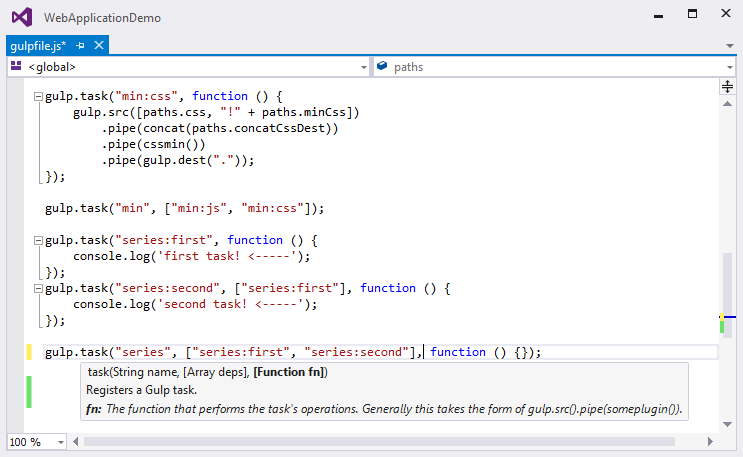
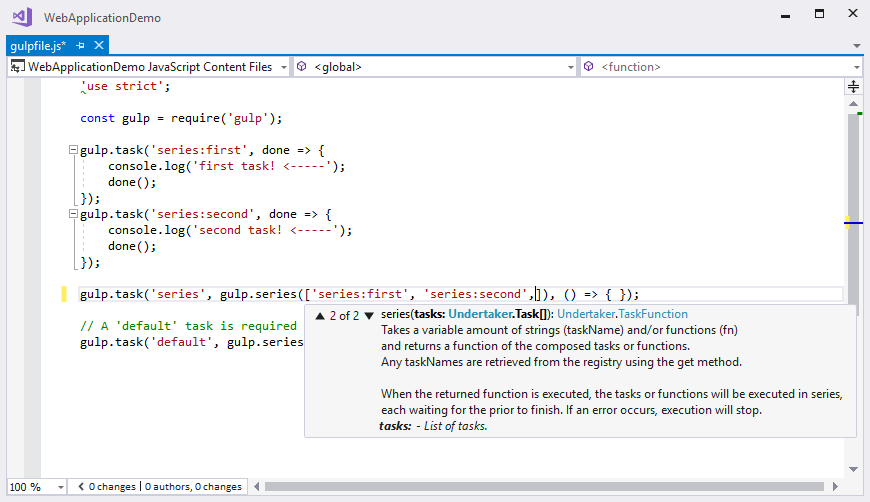
Added details, examples and docs on Gulp v4 (#8843)
Fixes https://github.com/aspnet/Docs/issues/8827
Fixes https://github.com/aspnet/Docs/issues/7632

**Internal Review Pages**
* [Use Gulp](https://review.docs.microsoft.com/en-us/aspnet/core/client-side/using-gulp?view=aspnetcore-2.1&branch=pr-en-us-8843)
* [Bundle & minify](https://review.docs.microsoft.com/en-us/aspnet/core/client-side/bundling-and-minification?view=aspnetcore-2.1&branch=pr-en-us-8843)

Changed region(s): [[0.0, 0.0, 1.0, 1.0], [0.9287, 0.0, 0.9906, 0.0306]]

diff --git a/aspnetcore/client-side/bundling-and-minification/samples/BuildBundlerMinifierApp/gulpfile.js b/aspnetcore/client-side/bundling-and-minification/samples/BuildBundlerMinifierApp/gulpfile.js
@@ -1,78 +1,67 @@
-"use strict";
+'use strict';
 
-var gulp = require("gulp"),
-    concat = require("gulp-concat"),
-    cssmin = require("gulp-cssmin"),
-    htmlmin = require("gulp-htmlmin"),
-    uglify = require("gulp-uglify"),
-    merge = require("merge-stream"),
-    del = require("del"),
-    bundleconfig = require("./bundleconfig.json");
+var gulp = require('gulp'),
+    concat = require('gulp-concat'),
+    cssmin = require('gulp-cssmin'),
+    htmlmin = require('gulp-htmlmin'),
+    uglify = require('gulp-uglify'),
+    merge = require('merge-stream'),
+    del = require('del'),
+    bundleconfig = require('./bundleconfig.json');
 
 // Code omitted for brevity
 
-var regex = {
+const regex = {
     css: /\.css$/,
     html: /\.(html|htm)$/,
     js: /\.js$/
 };
 
-gulp.task("min", ["min:js", "min:css", "min:html"]);
-
-gulp.task("min:js", function () {
-    var tasks = getBundles(regex.js).map(function (bundle) {
-        return gulp.src(bundle.inputFiles, { base: "." })
+gulp.task('min:js',
+    () => merge(getBundles(regex.js).map(bundle => {
+        return gulp.src(bundle.inputFiles, { base: '.' })
             .pipe(concat(bundle.outputFileName))
             .pipe(uglify())
-            .pipe(gulp.dest("."));
-    });
-    return merge(tasks);
-});
+            .pipe(gulp.dest('.'));
+    })));
 
-gulp.task("min:css", function () {
-    var tasks = getBundles(regex.css).map(function (bundle) {
-        return gulp.src(bundle.inputFiles, { base: "." })
+gulp.task('min:css',
+    () => merge(getBundles(regex.css).map(bundle => {
+        return gulp.src(bundle.inputFiles, { base: '.' })
             .pipe(concat(bundle.outputFileName))
             .pipe(cssmin())
-            .pipe(gulp.dest("."));
-    });
-    return merge(tasks);
-});
+            .pipe(gulp.dest('.'));
+    })));
 
-gulp.task("min:html", function () {
-    var tasks = getBundles(regex.html).map(function (bundle) {
-        return gulp.src(bundle.inputFiles, { base: "." })
+gulp.task('min:html',
+    () => merge(getBundles(regex.html).map(bundle => {
+        return gulp.src(bundle.inputFiles, { base: '.' })
             .pipe(concat(bundle.outputFileName))
             .pipe(htmlmin({ collapseWhitespace: true, minifyCSS: true, minifyJS: true }))
-            .pipe(gulp.dest("."));
-    });
-    return merge(tasks);
+            .pipe(gulp.dest('.'));
+    })));
+
+gulp.task('min', gulp.series(['min:js', 'min:css', 'min:html']));
+
+gulp.task('clean', () => {
+    return del(bundleconfig.map(bundle => bundle.outputFileName));
 });
 
-gulp.task("clean", function () {
-    var files = bundleconfig.map(function (bundle) {
-        return bundle.outputFileName;
-    });
+gulp.task('watch', () => {
+    getBundles(regex.js).forEach(
+        bundle => gulp.watch(bundle.inputFiles, gulp.series(["min:js"])));
 
-    return del(files);
+    getBundles(regex.css).forEach(
+        bundle => gulp.watch(bundle.inputFiles, gulp.series(["min:css"])));
+
+    getBundles(regex.html).forEach(
+        bundle => gulp.watch(bundle.inputFiles, gulp.series(['min:html'])));
 });
 
-gulp.task("watch", function () {
-    getBundles(regex.js).forEach(function (bundle) {
-        gulp.watch(bundle.inputFiles, ["min:js"]);
-    });
-
-    getBundles(regex.css).forEach(function (bundle) {
-        gulp.watch(bundle.inputFiles, ["min:css"]);
-    });
-
-    getBundles(regex.html).forEach(function (bundle) {
-        gulp.watch(bundle.inputFiles, ["min:html"]);
-    });
-});
-
-function getBundles(regexPattern) {
-    return bundleconfig.filter(function (bundle) {
+const getBundles = (regexPattern) => {
+    return bundleconfig.filter(bundle => {
         return regexPattern.test(bundle.outputFileName);
     });
-}
+};
+
+gulp.task('default', gulp.series(['min']));

diff --git a/aspnetcore/client-side/using-gulp.md b/aspnetcore/client-side/using-gulp.md
@@ -4,12 +4,12 @@ author: rick-anderson
 description: Learn how to use Gulp in ASP.NET Core.
 ms.author: riande
 ms.custom: H1Hack27Feb2017
-ms.date: 02/28/2017
+ms.date: 10/04/2018
 uid: client-side/using-gulp
 ---
 # Use Gulp in ASP.NET Core
 
-By [Erik Reitan](https://github.com/Erikre), [Scott Addie](https://scottaddie.com), [Daniel Roth](https://github.com/danroth27), and [Shayne Boyer](https://twitter.com/spboyer)
+By [Scott Addie](https://scottaddie.com), [Shayne Boyer](https://twitter.com/spboyer), and [David Pine](https://twitter.com/davidpine7)
 
 In a typical modern web app, the build process might:
 
@@ -31,10 +31,10 @@ A set of Gulp tasks is defined in *gulpfile.js*. The following JavaScript includ
 "use strict";
 
 var gulp = require("gulp"),
-  rimraf = require("rimraf"),
-  concat = require("gulp-concat"),
-  cssmin = require("gulp-cssmin"),
-  uglify = require("gulp-uglify");
+    rimraf = require("rimraf"),
+    concat = require("gulp-concat"),
+    cssmin = require("gulp-cssmin"),
+    uglify = require("gulp-uglify");
 
 var paths = {
   webroot: "./wwwroot/"
@@ -61,32 +61,31 @@ The above code specifies which Node modules are required. The `require` function
 Once the requisite modules are imported, the tasks can be specified. Here there are six tasks registered, represented by the following code:
 
 ```javascript
-gulp.task("clean:js", function (cb) {
-  rimraf(paths.concatJsDest, cb);
-});
+gulp.task("clean:js", done => rimraf(paths.concatJsDest, done));
+gulp.task("clean:css", done => rimraf(paths.concatCssDest, done));
+gulp.task("clean", gulp.series(["clean:js", "clean:css"]));
 
-gulp.task("clean:css", function (cb) {
-  rimraf(paths.concatCssDest, cb);
-});
-
-gulp.task("clean", ["clean:js", "clean:css"]);
-
-gulp.task("min:js", function () {
+gulp.task("min:js", () => {
   return gulp.src([paths.js, "!" + paths.minJs], { base: "." })
     .pipe(concat(paths.concatJsDest))
     .pipe(uglify())
     .pipe(gulp.dest("."));
 });
 
-gulp.task("min:css", function () {
+gulp.task("min:css", () => {
   return gulp.src([paths.css, "!" + paths.minCss])
     .pipe(concat(paths.concatCssDest))
     .pipe(cssmin())
     .pipe(gulp.dest("."));
 });
 
-gulp.task("min", ["min:js", "min:css"]);
+gulp.task("min", gulp.series(["min:js", "min:css"]));
+	
+// A 'default' task is required by Gulp v4
+gulp.task("default", gulp.series(["min"]));
 ```
+
+---
 
 The following table provides an explanation of the tasks specified in the code above:
 
@@ -103,19 +102,33 @@ The following table provides an explanation of the tasks specified in the code a
 
 If you haven't already created a new Web app, create a new ASP.NET Web Application project in Visual Studio.
 
-1.  Add a new JavaScript file to your project and name it *gulpfile.js*, then copy the following code.
+1.  Open the *package.json* file (add if not there) and add the following.
+
+    ```json
+    {
+      "devDependencies": {
+        "gulp": "^4.0.0",
+        "gulp-concat": "2.6.1",
+        "gulp-cssmin": "0.2.0",
+        "gulp-uglify": "3.0.0",
+        "rimraf": "2.6.1"
+      }
+    }
+    ```
+
+2.  Add a new JavaScript file to your project and name it *gulpfile.js*, then copy the following code.
 
     ```javascript
     /// <binding Clean='clean' />
     "use strict";
     
-    var gulp = require("gulp"),
-      rimraf = require("rimraf"),
-      concat = require("gulp-concat"),
-      cssmin = require("gulp-cssmin"),
-      uglify = require("gulp-uglify");
+    const gulp = require("gulp"),
+          rimraf = require("rimraf"),
+          concat = require("gulp-concat"),
+          cssmin = require("gulp-cssmin"),
+          uglify = require("gulp-uglify");
     
-    var paths = {
+    const paths = {
       webroot: "./wwwroot/"
     };
     
@@ -126,45 +139,28 @@ If you haven't already created a new Web app, create a new ASP.NET Web Applicati
     paths.concatJsDest = paths.webroot + "js/site.min.js";
     paths.concatCssDest = paths.webroot + "css/site.min.css";
     
-    gulp.task("clean:js", function (cb) {
-      rimraf(paths.concatJsDest, cb);
-    });
-    
-    gulp.task("clean:css", function (cb) {
-      rimraf(paths.concatCssDest, cb);
-    });
-    
-    gulp.task("clean", ["clean:js", "clean:css"]);
-    
-    gulp.task("min:js", function () {
-      return gulp.src([paths.js, "!" + paths.minJs], { base: "." })
-        .pipe(concat(paths.concatJsDest))
-        .pipe(uglify())
-        .pipe(gulp.dest("."));
-    });
-    
-    gulp.task("min:css", function () {
-      return gulp.src([paths.css, "!" + paths.minCss])
-        .pipe(concat(paths.concatCssDest))
-        .pipe(cssmin())
-        .pipe(gulp.dest("."));
-    });
-    
-    gulp.task("min", ["min:js", "min:css"]);
-    ```
+    gulp.task("clean:js", done => rimraf(paths.concatJsDest, done));
+    gulp.task("clean:css", done => rimraf(paths.concatCssDest, done));
+    gulp.task("clean", gulp.series(["clean:js", "clean:css"]));
 
-2.  Open the *package.json* file (add if not there) and add the following.
+	gulp.task("min:js", () => {
+	  return gulp.src([paths.js, "!" + paths.minJs], { base: "." })
+		.pipe(concat(paths.concatJsDest))
+		.pipe(uglify())
+		.pipe(gulp.dest("."));
+	});
 
-    ```json
-    {
-      "devDependencies": {
-        "gulp": "3.9.1",
-        "gulp-concat": "2.6.1",
-        "gulp-cssmin": "0.1.7",
-        "gulp-uglify": "2.0.1",
-        "rimraf": "2.6.1"
-      }
-    }
+	gulp.task("min:css", () => {
+	  return gulp.src([paths.css, "!" + paths.minCss])
+		.pipe(concat(paths.concatCssDest))
+		.pipe(cssmin())
+		.pipe(gulp.dest("."));
+	});
+
+	gulp.task("min", gulp.series(["min:js", "min:css"]));
+	
+	// A 'default' task is required by Gulp v4
+	gulp.task("default", gulp.series(["min"]));
     ```
 
 3.  In **Solution Explorer**, right-click *gulpfile.js*, and select **Task Runner Explorer**.
@@ -206,9 +202,10 @@ To define a new Gulp task, modify *gulpfile.js*.
 
 1.  Add the following JavaScript to the end of *gulpfile.js*:
 
-    ```javascript
-    gulp.task("first", function () {
+	```javascript
+    gulp.task('first', done => {
       console.log('first task! <-----');
+      done(); // signal completion
     });
     ```
 
@@ -230,16 +227,20 @@ When you run multiple tasks, the tasks run concurrently by default. However, if 
 
 1.  To define a series of tasks to run in order, replace the `first` task that you added above in *gulpfile.js* with the following:
 
-    ```javascript
-    gulp.task("series:first", function () {
-      console.log('first task! <-----');
-    });
- 
-    gulp.task("series:second", ["series:first"], function () {
-      console.log('second task! <-----');
-    });
- 
-    gulp.task("series", ["series:first", "series:second"], function () {});
+	```javascript
+	gulp.task('series:first', done => {
+	  console.log('first task! <-----');
+	  done(); // signal completion
+	});
+	gulp.task('series:second', done => {
+	  console.log('second task! <-----');
+      done(); // signal completion
+	});
+
+	gulp.task('series', gulp.series(['series:first', 'series:second']), () => { });
+
+	// A 'default' task is required by Gulp v4
+	gulp.task('default', gulp.series('series'));
     ```
  
     You now have three tasks: `series:first`, `series:second`, and `series`. The `series:second` task includes a second parameter which specifies an array of tasks to be run and completed before the `series:second` task will run. As specified in the code above, only the `series:first` task must be completed before the `series:second` task will run.

diff --git a/aspnetcore/client-side/bundling-and-minification.md b/aspnetcore/client-side/bundling-and-minification.md
@@ -4,12 +4,12 @@ author: scottaddie
 description: Learn how to optimize static resources in an ASP.NET Core web application by applying bundling and minification techniques.
 ms.author: scaddie
 ms.custom: mvc
-ms.date: 01/10/2018
+ms.date: 10/04/2018
 uid: client-side/bundling-and-minification
 ---
 # Bundle and minify static assets in ASP.NET Core
 
-By [Scott Addie](https://twitter.com/Scott_Addie)
+By [Scott Addie](https://twitter.com/Scott_Addie) and [David Pine](https://twitter.com/davidpine7)
 
 This article explains the benefits of applying bundling and minification, including how these features can be used with ASP.NET Core web apps.
 
